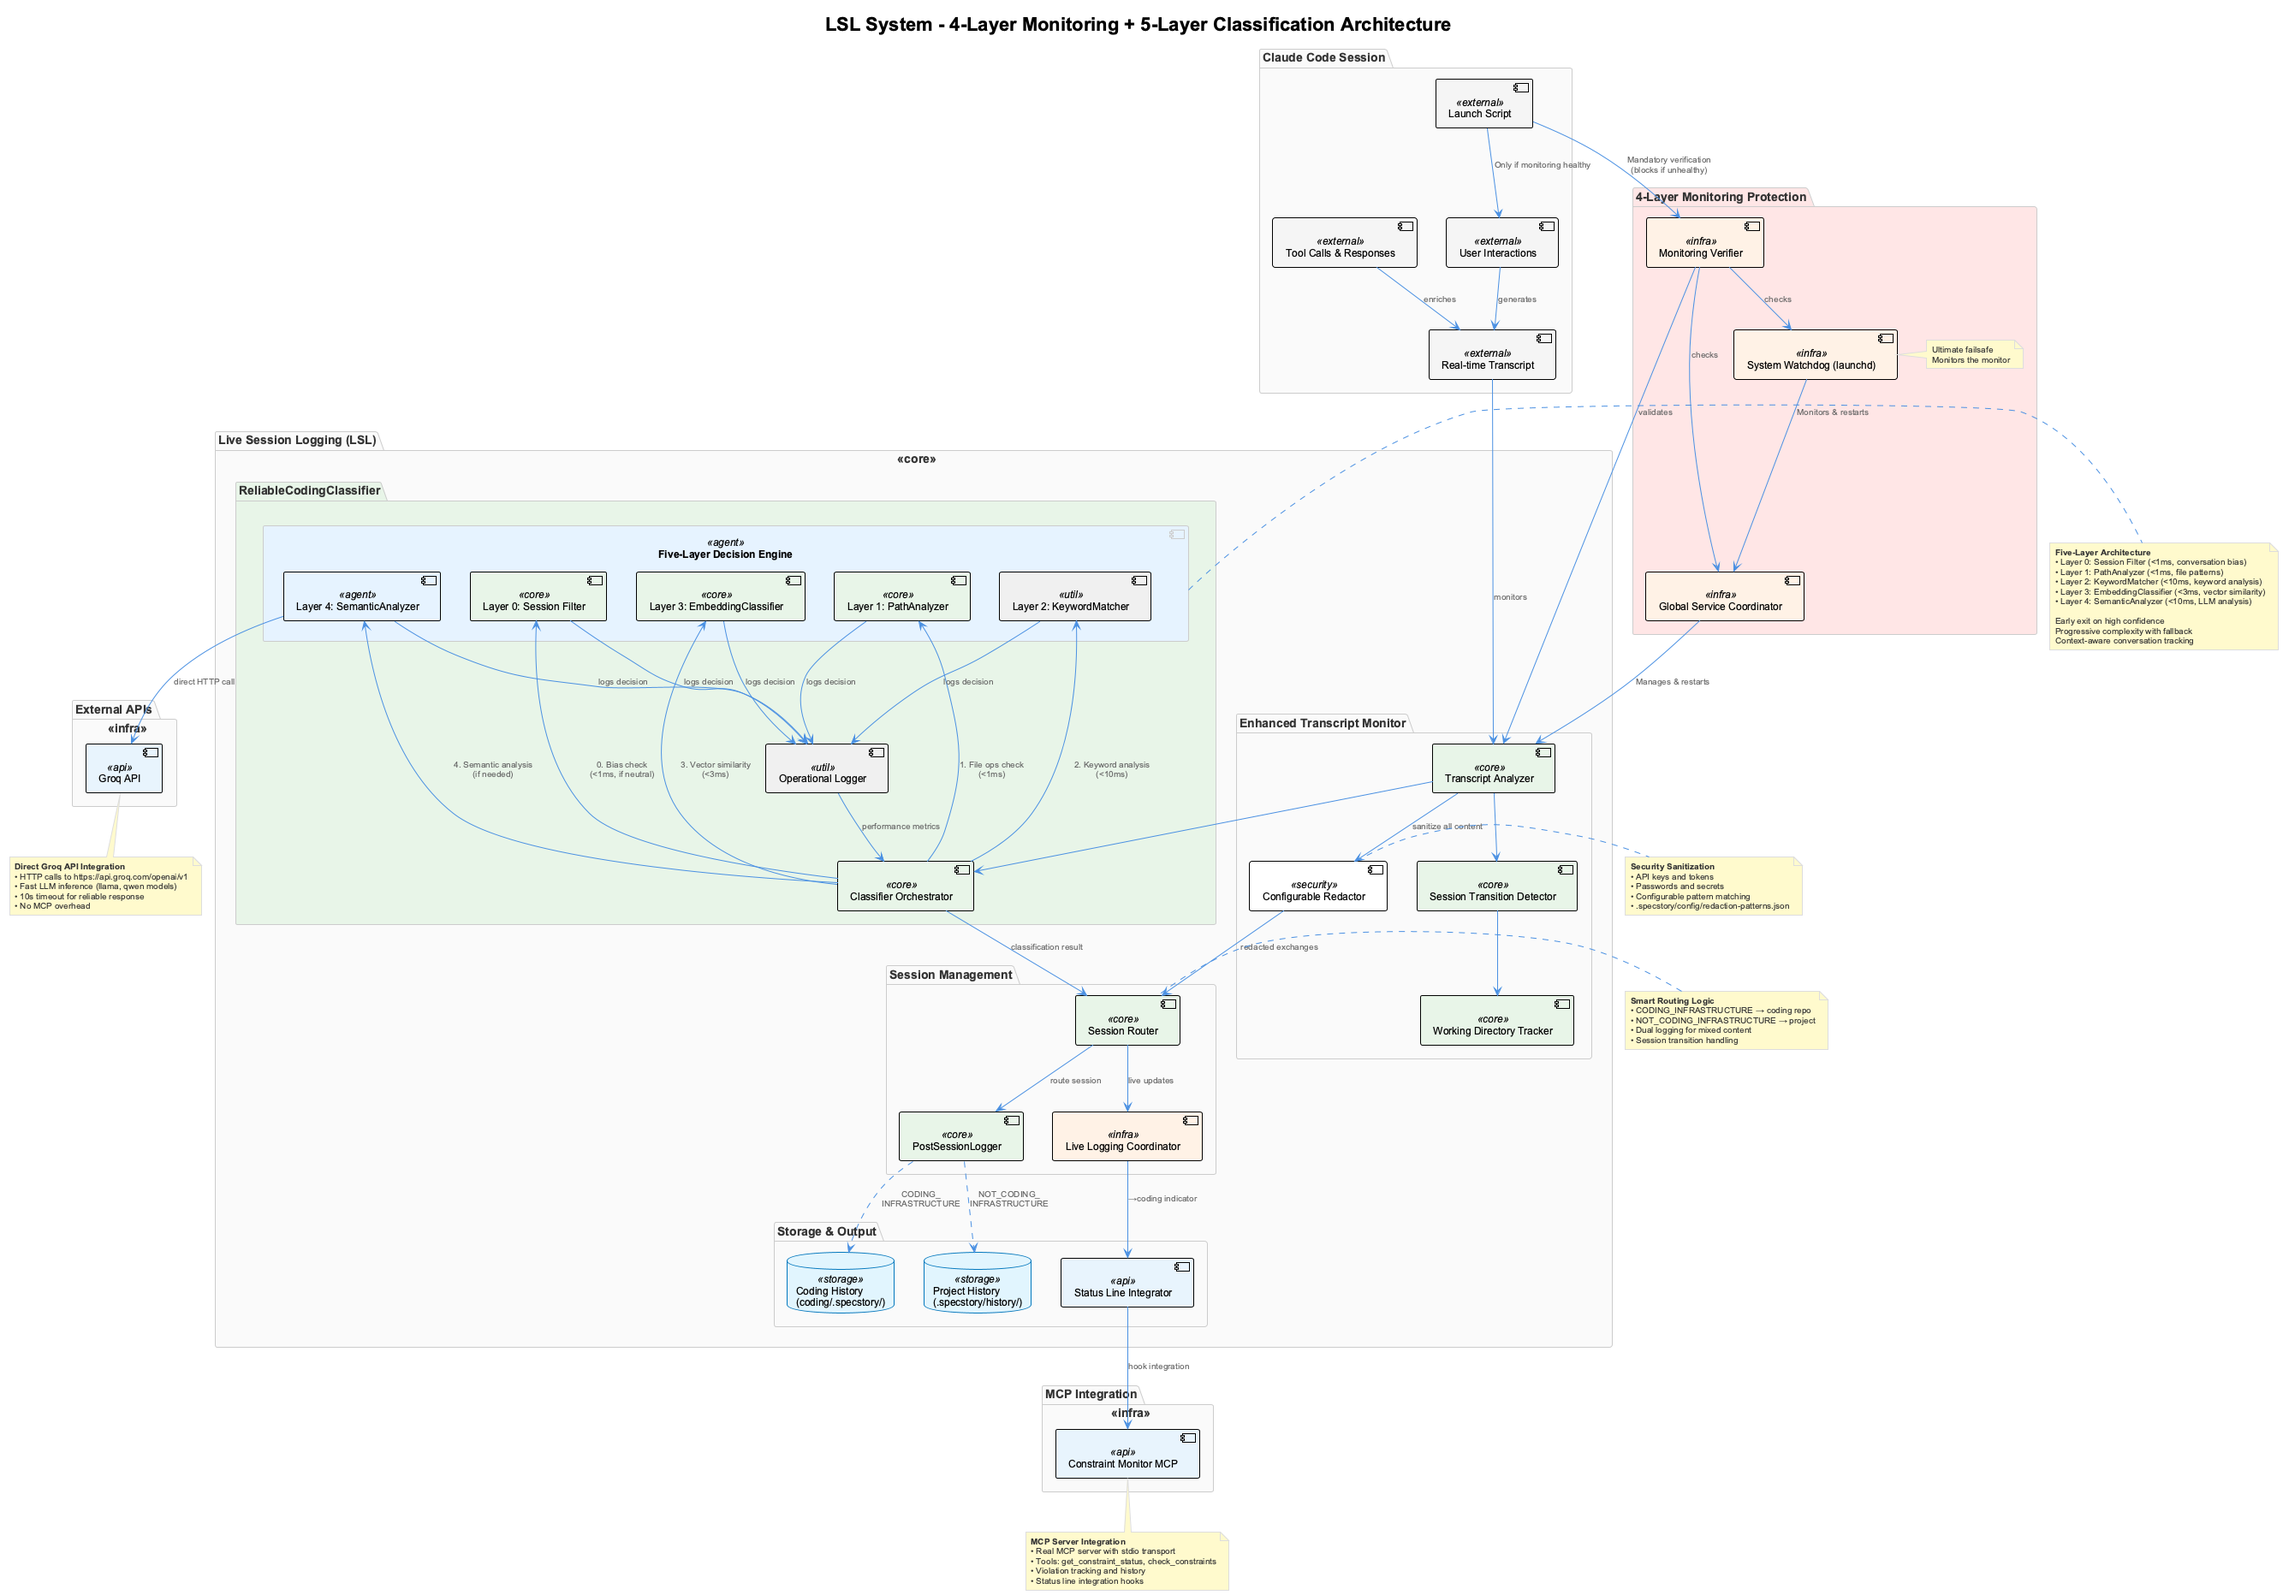
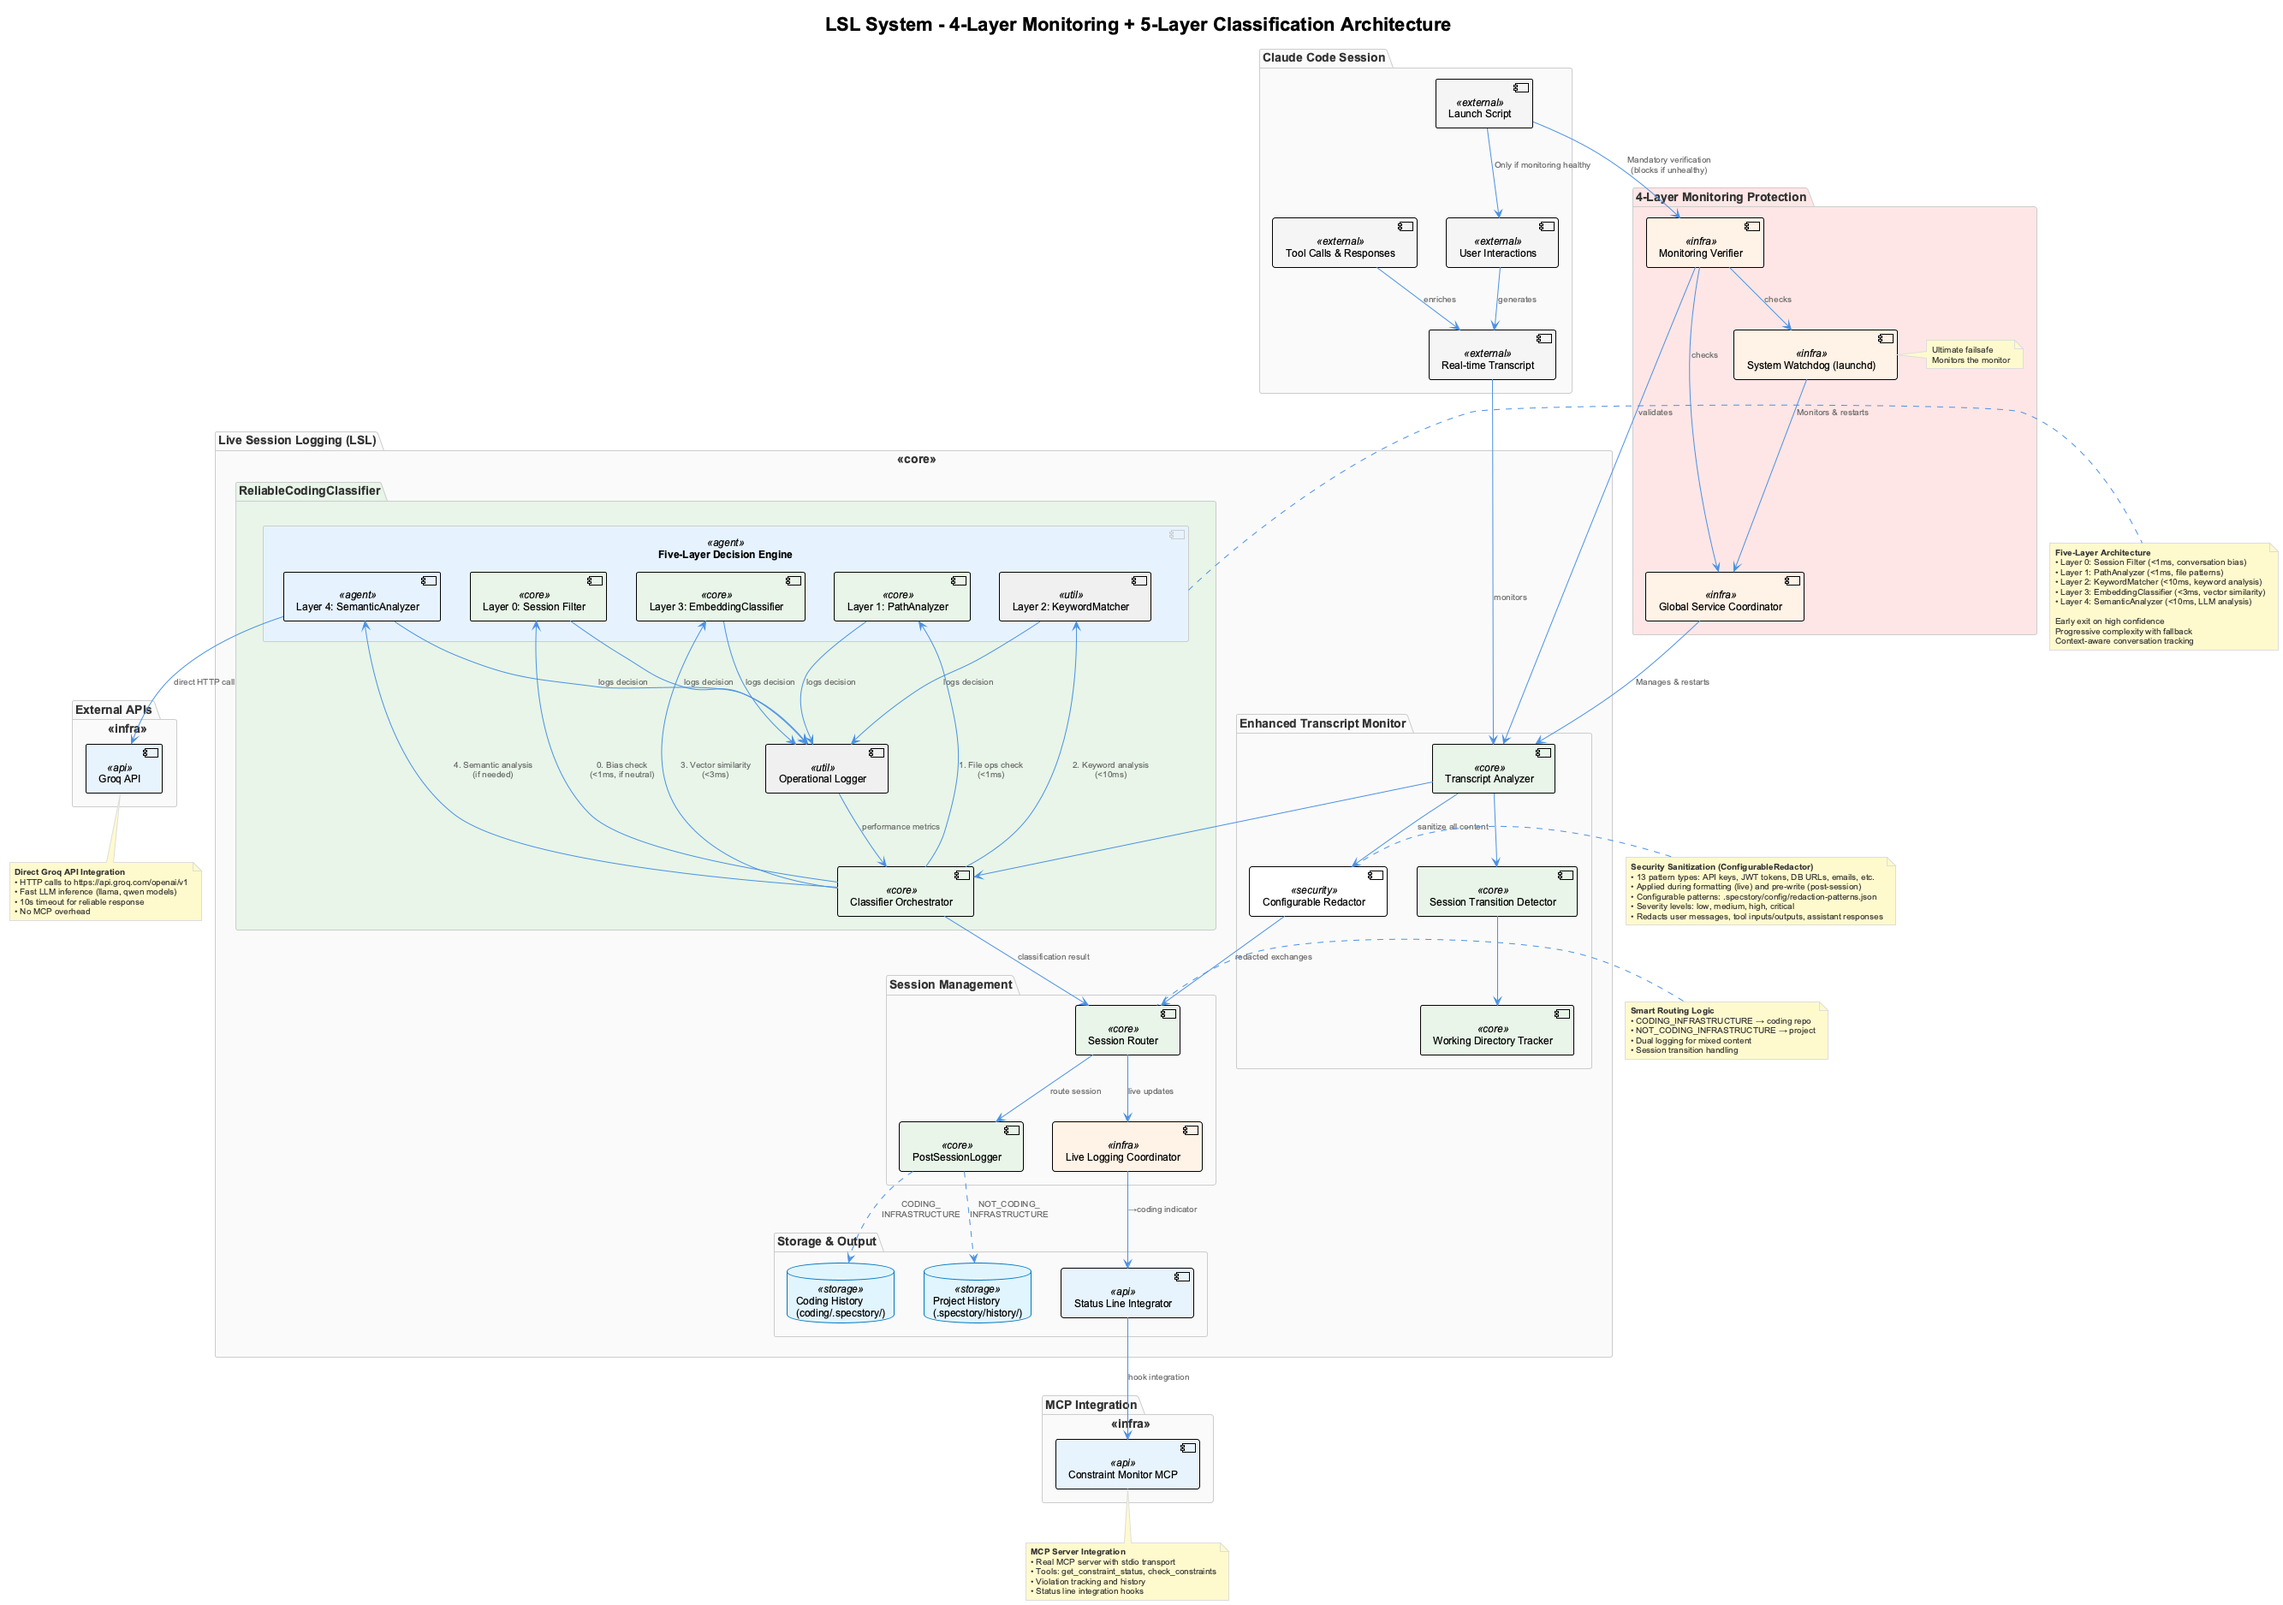
docs: comprehensive LSL redaction system documentation
Updated LSL documentation to reflect the ConfigurableRedactor security
system that was implemented in previous fixes.

Architecture Diagrams Updated:
- lsl-architecture.puml: Enhanced redactor note with 13 pattern types,
  dual application points (live + post-session), severity levels
- lsl-components.puml: Fixed flow showing extract → redactor → router
  (redaction happens BEFORE routing, not after)
- Regenerated PNG diagrams for both architecture and components

Documentation Updates:
- Added comprehensive "Security Redaction System" section
- Documented ConfigurableRedactor with 13 pattern types
- Explained dual application: live (enhanced-transcript-monitor.js)
  and post-session (post-session-logger.js)
- Included configuration details, performance metrics, examples
- Clarified redaction happens BEFORE content reaches storage

Key Documentation Points:
- 13 redaction patterns: env vars, JSON keys, sk-/xai- prefixed keys,
  JWT tokens, DB connection strings, emails, corporate IDs
- Configurable via .specstory/config/redaction-patterns.json
- Severity levels: low, medium, high, critical
- Applied to user messages, tool inputs, tool outputs, assistant responses
- Zero secrets persisted in LSL files

Technical Details:
- ConfigurableRedactor class in src/live-logging/ConfigurableRedactor.js
- Enhanced-transcript-monitor.js lines 1617-1695 (formatting)
- Post-session-logger.js lines 356-409 (pre-write)
- Performance: <5ms overhead per exchange
[…]

diff --git a/docs/core-systems/live-session-logging.md b/docs/core-systems/live-session-logging.md
@@ -105,6 +105,71 @@ Each critical service implements self-health checks and can self-restart when ex
 - **Port Health Checks**: Validates API server is responsive on port 6333
 - **Automatic Restart**: Service-level restart capabilities when health checks fail
 
+## Security Redaction System
+
+**Location**: `src/live-logging/ConfigurableRedactor.js`
+
+The LSL system includes a comprehensive security redaction system that automatically sanitizes sensitive information before writing any content to disk. This ensures API keys, passwords, database credentials, and other secrets are never persisted in LSL files.
+
+### ConfigurableRedactor Features
+
+**Comprehensive Pattern Coverage**:
+- **13 Redaction Pattern Types**: Covers all common secret formats
+  - Environment variables (API_KEY=value format)
+  - JSON API keys ("apiKey": "sk-..." format)
+  - sk- prefixed keys (OpenAI, Anthropic)
+  - xai- prefixed keys (XAI/Grok)
+  - Generic API keys (alphanumeric with dashes/underscores)
+  - Bearer tokens (Authorization headers)
+  - JWT tokens (three base64 segments)
+  - MongoDB connection strings
+  - PostgreSQL connection strings
+  - MySQL connection strings
+  - Generic URLs with embedded credentials
+  - Email addresses
+  - Corporate user IDs and company names
+
+**Configurable & Maintainable**:
+- JSON configuration at `.specstory/config/redaction-patterns.json`
+- Each pattern includes: id, name, description, regex pattern, severity level
+- Severity levels: `low`, `medium`, `high`, `critical`
+- Patterns can be enabled/disabled individually
+- Validation against JSON schema ensures configuration correctness
+
+**Dual Application Points**:
+1. **Live System (enhanced-transcript-monitor.js)**:
+   - Redaction during exchange formatting (lines 1617-1695)
+   - Applied to user messages, tool inputs, tool outputs, assistant responses
+   - Happens BEFORE content reaches router/storage
+
+2. **Post-Session System (post-session-logger.js)**:
+   - Redaction before writing LSL files (lines 356-409)
+   - Fallback protection when live logging unavailable
+   - Ensures zero secrets in any LSL output
+
+**Performance Optimized**:
+- Patterns compiled once during initialization
+- Efficient regex matching with minimal overhead
+- Statistics tracking: redactions performed, average processing time
+- Typical overhead: <5ms per exchange
+
+**Example Redaction**:
+```javascript
+// Before redaction
+ANTHROPIC_API_KEY=sk-ant-1234567890abcdef
+"openaiApiKey": "sk-abcdef1234567890"
+
+// After redaction
+ANTHROPIC_API_KEY=<SECRET_REDACTED>
+"openaiApiKey": "<SECRET_REDACTED>"
+```
+
+**Configuration Management**:
+- Automatic creation of default configuration on first run
+- Schema validation prevents configuration errors
+- Graceful error handling with security-first approach
+- Test utilities for pattern validation
+
 ## LSL Components Architecture
 
 ![LSL Components](../images/lsl-components.png)
